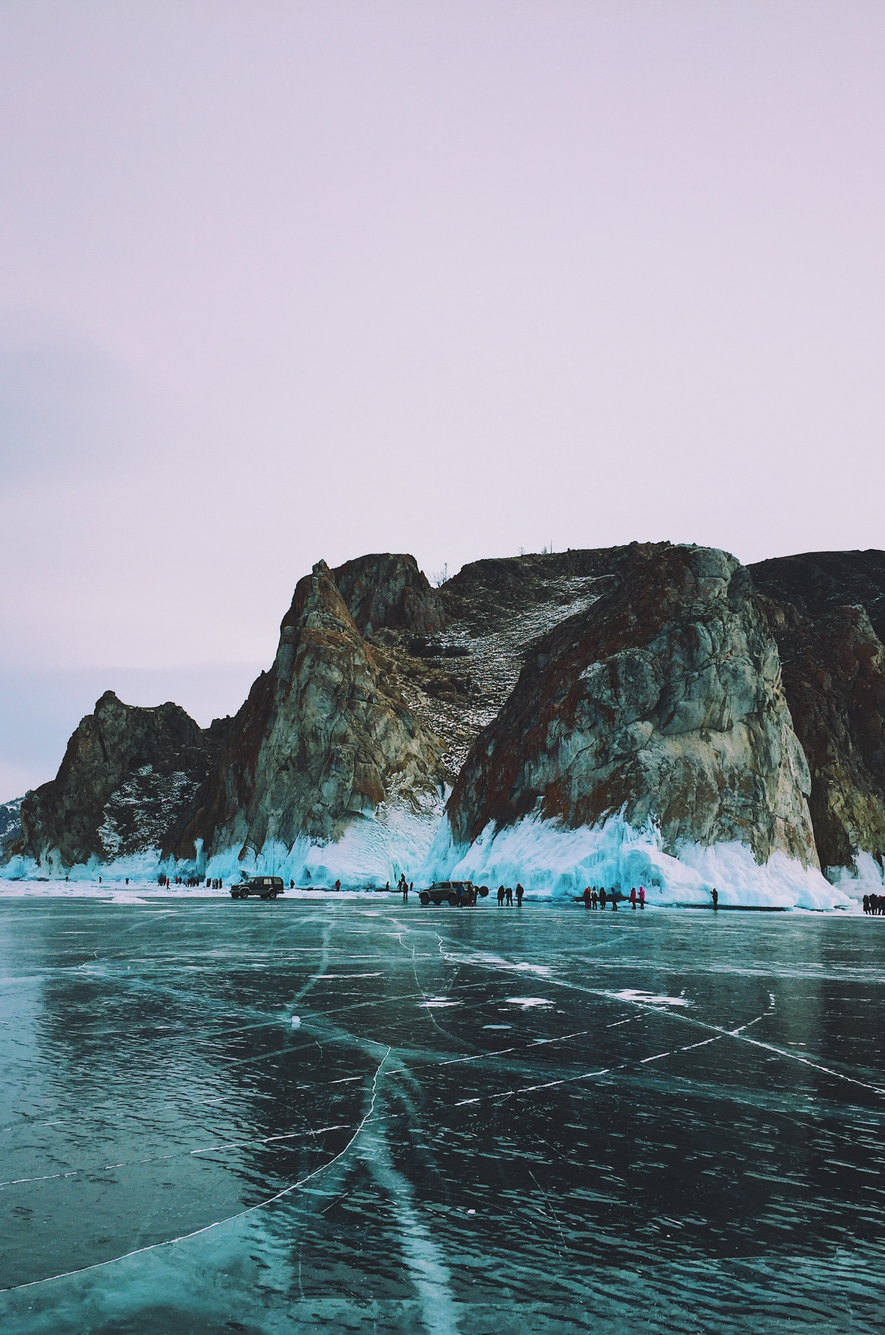
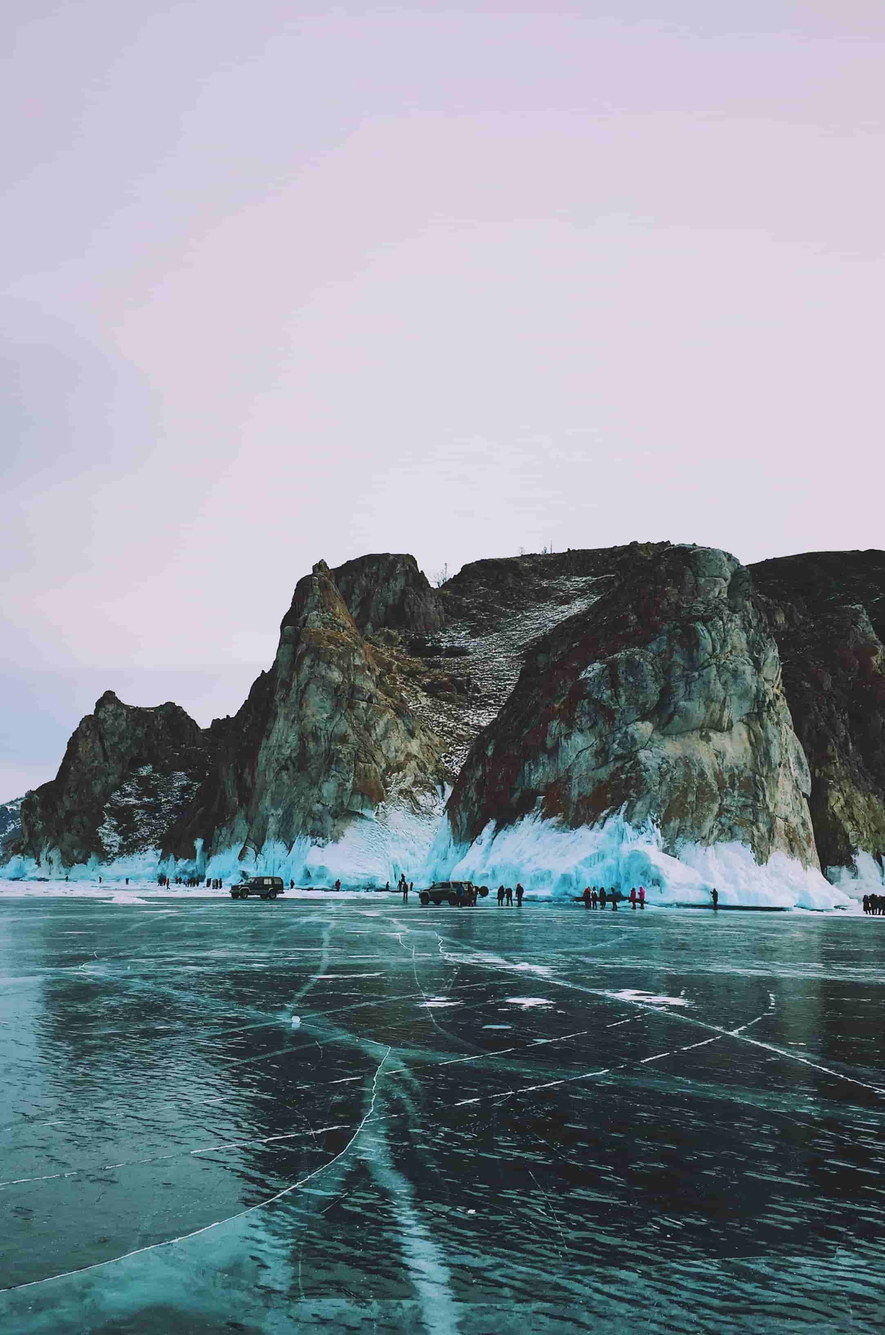
Заменены фотографии на более маленькие

diff --git a/blocks/page/__content/page__content.css b/blocks/page/__content/page__content.css
@@ -5,6 +5,7 @@
     display: flex;
     flex-direction: column;
     width: 100%;
-    margin: auto;
+    margin: auto auto 0px auto;
+    height: 100%;
            
 }

diff --git a/blocks/page/page.css b/blocks/page/page.css
@@ -5,5 +5,6 @@
     font-style: normal;
     background: #000000;
     color: #FFFFFF;
-    margin: 0px;
+    margin-bottom: 0;
+   
 }
